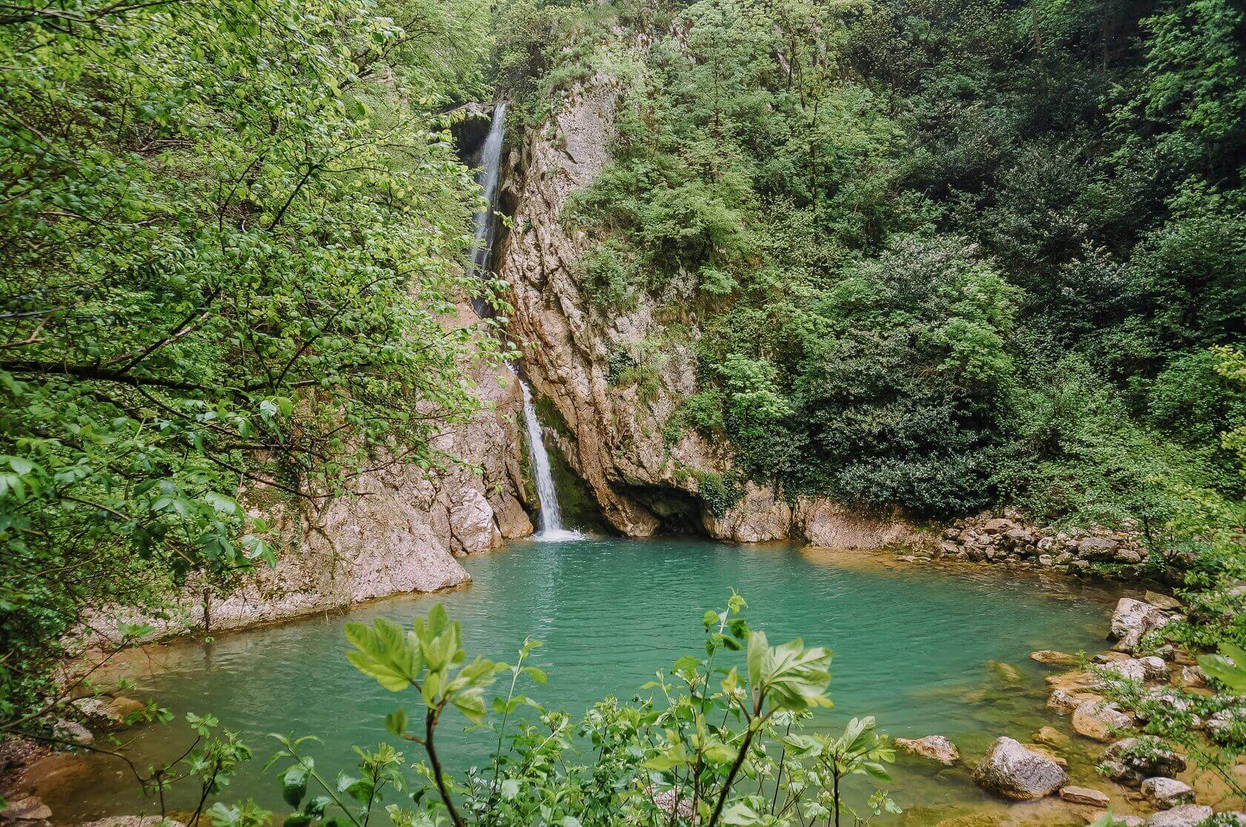
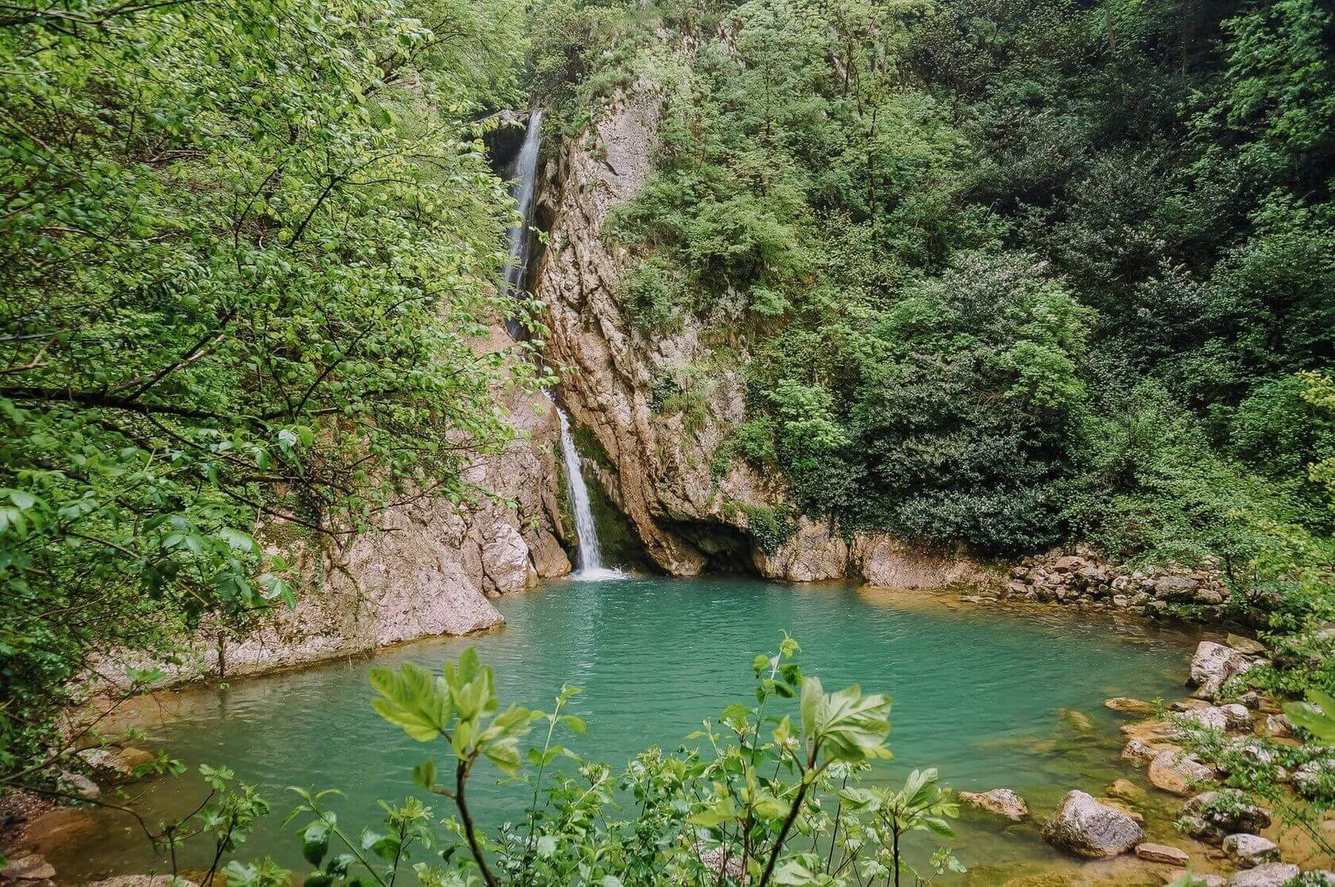
Новые фото, отступы в мобильной версии

diff --git a/css/style.css b/css/style.css
@@ -631,7 +631,7 @@ body {
 
 @media (max-width: 524px) {
     .numbers {
-        padding-top: 70px;
+        padding-top: 0;
         padding-bottom: 70px;
     }
 
@@ -736,6 +736,13 @@ body {
     padding-bottom: 70px;
 }
 
+@media (max-width: 524px) {
+    .food {
+        padding-top: 0px;
+        padding-bottom: 70px;
+    }
+}
+
 .bathroom__flex {
     display: flex;
     flex-direction: row;
@@ -810,6 +817,18 @@ body {
     .bathroom__text {
         padding-bottom: 60px;
     }
+
+    .gallery.rooms {
+        padding-bottom: 70px;
+        padding-top: 0;
+    }
+}
+
+@media (max-width: 524px) {
+    .bathroom {
+        padding-top: 0;
+        padding-bottom: 70px;
+    }
 }
 
 
@@ -823,6 +842,11 @@ body {
     }
 }
 
+@media (max-width: 524px) {
+    .tracking {
+        padding-top: 0;
+    }
+}
 
 .sea {
     padding-top: 140px;
@@ -844,7 +868,7 @@ body {
 
 .feedback {
     padding-top: 70px;
-    padding-bottom: 0;
+    padding-bottom: 70px;
     text-align: center;
 }
 
@@ -898,6 +922,12 @@ body {
 
 polyline {
     fill: #bb9b49;
+}
+
+@media (max-width: 524px) {
+    .feedback {
+        padding-bottom: 0px;
+    }
 }
 
 .price {
@@ -970,15 +1000,7 @@ polyline {
     box-shadow: 2px 5px 7px rgb(0, 0, 0, 0.25);
 }
 
-@media (max-width: 680px) {
-    .feedback {
-        padding-bottom: 90px;
-    }
 
-    .price {
-        padding-top: 80px;
-    }
-}
 
 .workship__flex {
     display: flex;

diff --git a/index.html b/index.html
@@ -242,10 +242,16 @@
 
                 <ul class="uk-slideshow-items">
                     <li>
-                        <img src="img/tracking_01.jpeg" alt="" uk-cover>
+                        <img src="img/tracking_01.jpg" alt="" uk-cover>
                     </li>
                     <li>
                         <img src="img/tracking_02.jpg" alt="" uk-cover>
+                    </li>
+                    <li>
+                        <img src="img/tracking_03.jpg" alt="" uk-cover>
+                    </li>
+                    <li>
+                        <img src="img/tracking_04.jpg" alt="" uk-cover>
                     </li>
                 </ul>
             
